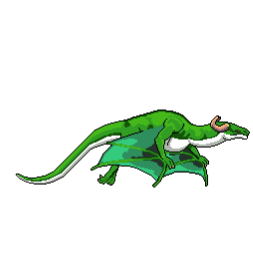
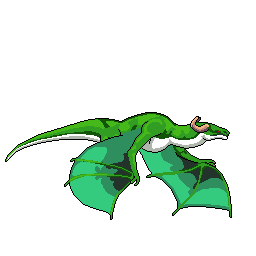
add charakter animation & funktion: fly / fire-attack  / endboss litle fixes

Changed region(s): [[0.0277, 0.4062, 0.996, 0.875]]

diff --git a/scripts/models/character.class.js b/scripts/models/character.class.js
@@ -1,12 +1,15 @@
 class Character extends MovableObject {
-
-    isControllable = true;
     height = 300;
     width = 300;
     y = 140;
     speed = 5;
     health = 100;
     world;
+    isControllable = true;
+    isFlight = false;
+    isLanding = false;
+    isRising = false;
+    wasInFlight = false;
 
     hitbox = {
         left: 40,
@@ -38,16 +41,48 @@ class Character extends MovableObject {
         './assets/img/2_character_dragon/2_walk/walk_10.png',
         './assets/img/2_character_dragon/2_walk/walk_11.png'
     ];
+    images_rise = [
+        './assets/img/2_character_dragon/3_rise/rise_00.png',
+        './assets/img/2_character_dragon/3_rise/rise_01.png',
+        './assets/img/2_character_dragon/3_rise/rise_02.png',
+        './assets/img/2_character_dragon/3_rise/rise_03.png',
+        './assets/img/2_character_dragon/3_rise/rise_04.png',
+        './assets/img/2_character_dragon/3_rise/rise_05.png',
+        './assets/img/2_character_dragon/3_rise/rise_06.png',
+    ];
+    images_flight = [
+        './assets/img/2_character_dragon/4_flight/flight_00.png',
+        './assets/img/2_character_dragon/4_flight/flight_01.png',
+        './assets/img/2_character_dragon/4_flight/flight_02.png',
+        './assets/img/2_character_dragon/4_flight/flight_03.png',
+        './assets/img/2_character_dragon/4_flight/flight_04.png',
+        './assets/img/2_character_dragon/4_flight/flight_05.png',
+        './assets/img/2_character_dragon/4_flight/flight_06.png',
+        './assets/img/2_character_dragon/4_flight/flight_07.png',
+        './assets/img/2_character_dragon/4_flight/flight_08.png',
+        './assets/img/2_character_dragon/4_flight/flight_09.png',
+        './assets/img/2_character_dragon/4_flight/flight_10.png',
+        './assets/img/2_character_dragon/4_flight/flight_11.png',
+    ];
+    images_landing = [
+        './assets/img/2_character_dragon/5_landing/landing_00.png',
+        './assets/img/2_character_dragon/5_landing/landing_01.png',
+        './assets/img/2_character_dragon/5_landing/landing_02.png',
+        './assets/img/2_character_dragon/5_landing/landing_03.png',
+        './assets/img/2_character_dragon/5_landing/landing_04.png',
+    ];
+    images_fire_attack = [
+        './assets/img/2_character_dragon/6_fire_attack/fire_attack_00.png',
+        './assets/img/2_character_dragon/6_fire_attack/fire_attack_01.png',
+        './assets/img/2_character_dragon/6_fire_attack/fire_attack_02.png',
+        './assets/img/2_character_dragon/6_fire_attack/fire_attack_03.png',
+        './assets/img/2_character_dragon/6_fire_attack/fire_attack_04.png',
+    ];
     images_bite_attack = [
         './assets/img/2_character_dragon/7_bite_attack/bite_attack_00.png',
         './assets/img/2_character_dragon/7_bite_attack/bite_attack_01.png',
         './assets/img/2_character_dragon/7_bite_attack/bite_attack_02.png',
         './assets/img/2_character_dragon/7_bite_attack/bite_attack_03.png'
-    ];
-    images_dead = [
-        './assets/img/2_character_dragon/9_dead/dead_00.png',
-        './assets/img/2_character_dragon/9_dead/dead_01.png',
-        './assets/img/2_character_dragon/9_dead/dead_02.png',
     ];
     images_hurt = [
         './assets/img/2_character_dragon/8_hurt/hurt_00.png',
@@ -55,11 +90,21 @@ class Character extends MovableObject {
         './assets/img/2_character_dragon/8_hurt/hurt_02.png',
         './assets/img/2_character_dragon/8_hurt/hurt_03.png',
     ];
+    images_dead = [
+        './assets/img/2_character_dragon/9_dead/dead_00.png',
+        './assets/img/2_character_dragon/9_dead/dead_01.png',
+        './assets/img/2_character_dragon/9_dead/dead_02.png',
+    ];
+
 
     constructor() {
         super().loadImage('./assets/img/2_character_dragon/2_walk/walk_00.png');
         this.loadImages(this.images_idle);
         this.loadImages(this.images_walk);
+        this.loadImages(this.images_rise);
+        this.loadImages(this.images_flight);
+        this.loadImages(this.images_landing);
+        this.loadImages(this.images_fire_attack);
         this.loadImages(this.images_bite_attack);
         this.loadImages(this.images_dead);
         this.loadImages(this.images_hurt);
@@ -69,7 +114,14 @@ class Character extends MovableObject {
     animate() {
 
         setInterval(() => {
+            this.flightControll();
             if (this.isControllable) {
+                if (this.world.keyboard.UP && this.y > -50) {
+                    this.moveUp();
+                }
+                if (this.world.keyboard.DOWN && this.y < 140) {
+                    this.moveDown();
+                }
                 if (this.world.keyboard.RIGHT && this.x < this.world.level.level_end_x) {
                     this.moveRight();
                     this.otherDirection = false;
@@ -88,12 +140,16 @@ class Character extends MovableObject {
         setInterval(() => {
             if (this.isDead()) {
                 this.playDeadAnimation(this.images_dead);
+            } else if (this.isFlight) {
+                this.playAnimations(this.images_flight);
             } else if (this.isHurt()) {
                 this.playAnimations(this.images_hurt);
             } else if (this.world.keyboard.RIGHT || this.world.keyboard.LEFT) {
                 this.playAnimations(this.images_walk);
             } else if (this.world.keyboard.SPACE) {
                 this.playBitAttackAnimation(this.images_bite_attack);
+            } else if (this.world.keyboard.F) {
+                this.playFireAttackAnimation(this.images_fire_attack);
             } else {
                 this.playAnimations(this.images_idle);
             }
@@ -101,16 +157,15 @@ class Character extends MovableObject {
     }
 
     playBitAttackAnimation(images) {
-        if (!this.attackCooldown) { this.attackCooldown = 1500; }
-        if (!this.lastAttackTime) { this.lastAttackTime = 0; }
-        const now = Date.now();
-        if (now - this.lastAttackTime < this.attackCooldown) return;
-        this.lastAttackTime = now;
+        if (!this.biteCooldown) { this.biteCooldown = 1500; }
+        if (!this.lastBiteTime) { this.lastBiteTime = 0; }
+        let now = Date.now();
+        if (now - this.lastBiteTime < this.biteCooldown) return;
+        this.lastBiteTime = now;
         this.isAttacking = true;
 
         this.originalHitbox = { ...this.hitbox };
-
-        this.hitbox.right = this.originalHitbox.left - 20;
+        this.hitbox.right = this.originalHitbox.left - 25;
 
         this.playAnimationOnce(images, () => {
             this.animationPlayedOnce = false;
@@ -119,4 +174,42 @@ class Character extends MovableObject {
             this.isAttacking = false;
         });
     }
+
+    playFireAttackAnimation(images) {
+        if (!this.fireCooldown) { this.fireCooldown = 5000; }
+        if (!this.lastFireTime) { this.lastFireTime = 0; }
+        let now = Date.now();
+        if (now - this.lastFireTime < this.fireCooldown) return;
+        this.lastFireTime = now;
+        this.isAttacking = true;
+
+        this.playAnimationOnce(images, () => {
+            this.animationPlayedOnce = false;
+            this.isControllable = true;
+            this.isAttacking = false;
+        });
+    }
+
+    flightControll() {
+        if (!this.isAttacking) {
+            if (this.y < 140) {
+                this.isFlight = true;
+                this.hitbox.bottom = 110;
+                this.hitbox.top = 120;
+                this.hitbox.right = 20;
+            } else {
+                this.isFlight = false;
+                this.hitbox.bottom = 0;
+                this.hitbox.top = 190;
+                this.hitbox.right = 40;
+            }
+        }
+    }
 }
+
+
+// else if () {
+//     this.playAnimationOnce(this.images_rise)
+// } else if () {
+//     this.playAnimationOnce(this.images_landing)
+// }

diff --git a/scripts/models/endboss.class.js b/scripts/models/endboss.class.js
@@ -52,7 +52,6 @@ class Endboss extends MovableObject {
         './assets/img/4_enemie_boss/2_attack/attack_13.png',
         './assets/img/4_enemie_boss/2_attack/attack_14.png'
     ];
-
     images_hurt = [
         './assets/img/4_enemie_boss/3_hurt/hurt_00.png',
         './assets/img/4_enemie_boss/3_hurt/hurt_01.png',
@@ -168,6 +167,7 @@ class Endboss extends MovableObject {
         this.isAttacking = true;
         this.originalHitbox = { ...this.hitbox };
         this.hitbox.left = this.originalHitbox.right - 55;
+        this.hitbox.top = this.originalHitbox.top - 220;
 
         this.playAnimationOnce(this.images_attack, () => {
             this.hitbox = this.originalHitbox;

diff --git a/scripts/models/world.class.js b/scripts/models/world.class.js
@@ -49,9 +49,7 @@ class World {
                     enemy.checkActivation(this.character);
                     this.bossBar.updatePosition(enemy);
                     this.bossBar.setPercentage(enemy.health);
-                    this.level.level_end_x = enemy.x - 230;
-                    console.log(enemy.health);
-                    
+                    this.level.level_end_x = enemy.x - 230;                    
                 }
             });
 

diff --git a/scripts/models/movable-object.class.js b/scripts/models/movable-object.class.js
@@ -47,6 +47,14 @@ class MovableObject extends DrawableObject {
         this.x -= this.speed;
     }
 
+    moveUp() {
+        this.y -= 3;
+    }
+
+    moveDown() {
+        this.y += 3;
+    }
+
     hit(damage) {
         this.health -= damage;
         if (this.health < 0) {
